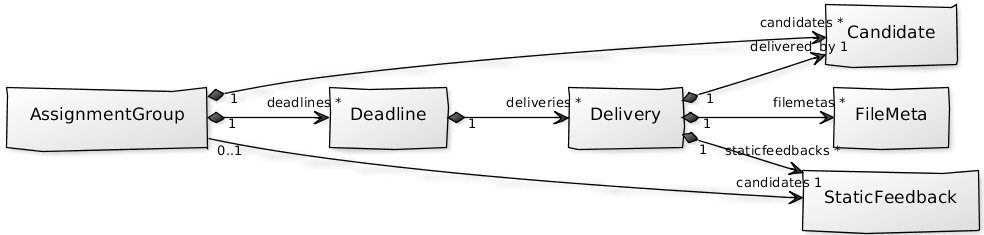
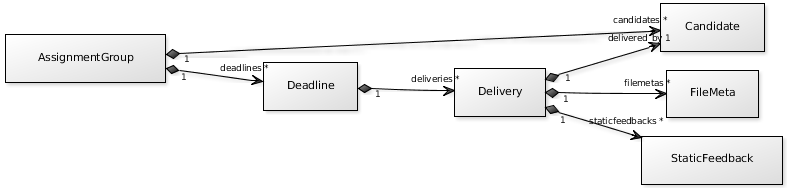
docs: Updated model.

diff --git a/docs/core.models.rst b/docs/core.models.rst
@@ -16,7 +16,7 @@
 (edit the images umldiagram1_ and umldiagram2_ using yuml.me)
 
 .. _umldiagram1: http://yuml.me/diagram/plain;dir:LR;scale:80;/class/edit/[Node]++1-subjects >*[Subject], [Node]++0-child-nodes >*[Node], [Subject]++1-periods >*[Period], [Period]++1-assignments >*[Assignment], [Assignment]++1-assignmentgroups >*[AssignmentGroup]
-.. _umldiagram2: http://yuml.me/diagram/scruffy/class/edit/%5BAssignmentGroup%5D++1-deliveries%20%3E*%5BDelivery%5D,%20%5BAssignmentGroup%5D++1-deadlines%20%3E*%5BDeadline%5D,%20%5BAssignmentGroup%5D++1-candidates%20%3E*%5BCandidate%5D,%20%5BDelivery%5D++1-staticfeedbacks%20%3E*%5BStaticFeedback%5D,%20%5BDelivery%5D++1-filemetas%20%3E*%5BFileMeta%5D,%20%5BDeadline%5D++1-deliveries%20%3E*%5BDelivery%5D,%20%5BDelivery%5D++1-delivered_by%20%3E1%5BCandidate%5D
+.. _umldiagram2: http://yuml.me/diagram/scruffy/class/edit/%5BAssignmentGroup%5D++1-deadlines%20%3E*%5BDeadline%5D,%20%5BAssignmentGroup%5D++1-candidates%20%3E*%5BCandidate%5D,%20%5BDelivery%5D++1-staticfeedbacks%20%3E*%5BStaticFeedback%5D,%20%5BDelivery%5D++1-filemetas%20%3E*%5BFileMeta%5D,%20%5BDeadline%5D++1-deliveries%20%3E*%5BDelivery%5D,%20%5BDelivery%5D++1-delivered_by%20%3E1%5BCandidate%5D
 
 Functions and attributes
 #########################################################
